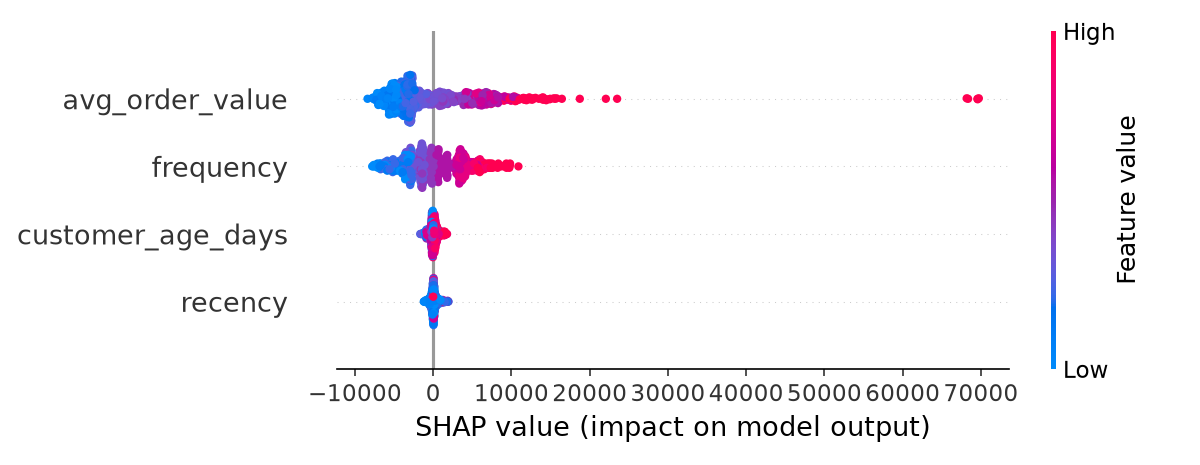
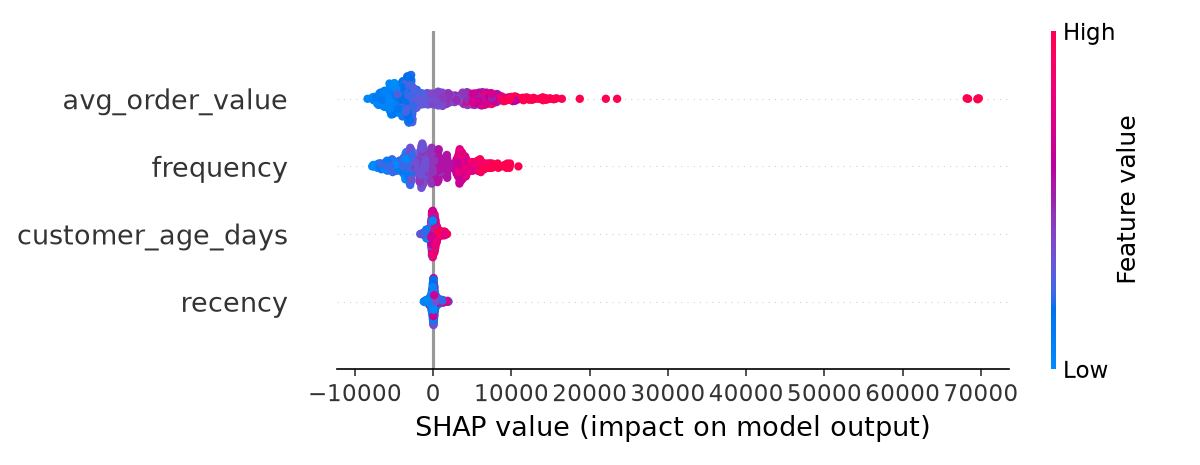
style: fix ruff import sorting

diff --git a/models/explain.py b/models/explain.py
@@ -1,9 +1,6 @@
-import joblib 
-import matplotlib
-
-matplotlib.use('Agg')
+import joblib
 import matplotlib.pyplot as plt
-import pandas as pd 
+import pandas as pd
 import shap
 
 FEATURES = ["frequency", "recency", "customer_age_days", "avg_order_value"]

diff --git a/monitoring/drift_report.py b/monitoring/drift_report.py
@@ -1,4 +1,4 @@
-import pandas as pd 
+import pandas as pd
 
 FEATURES = ["frequency", "recency", "customer_age_days", "avg_order_value"]
 
